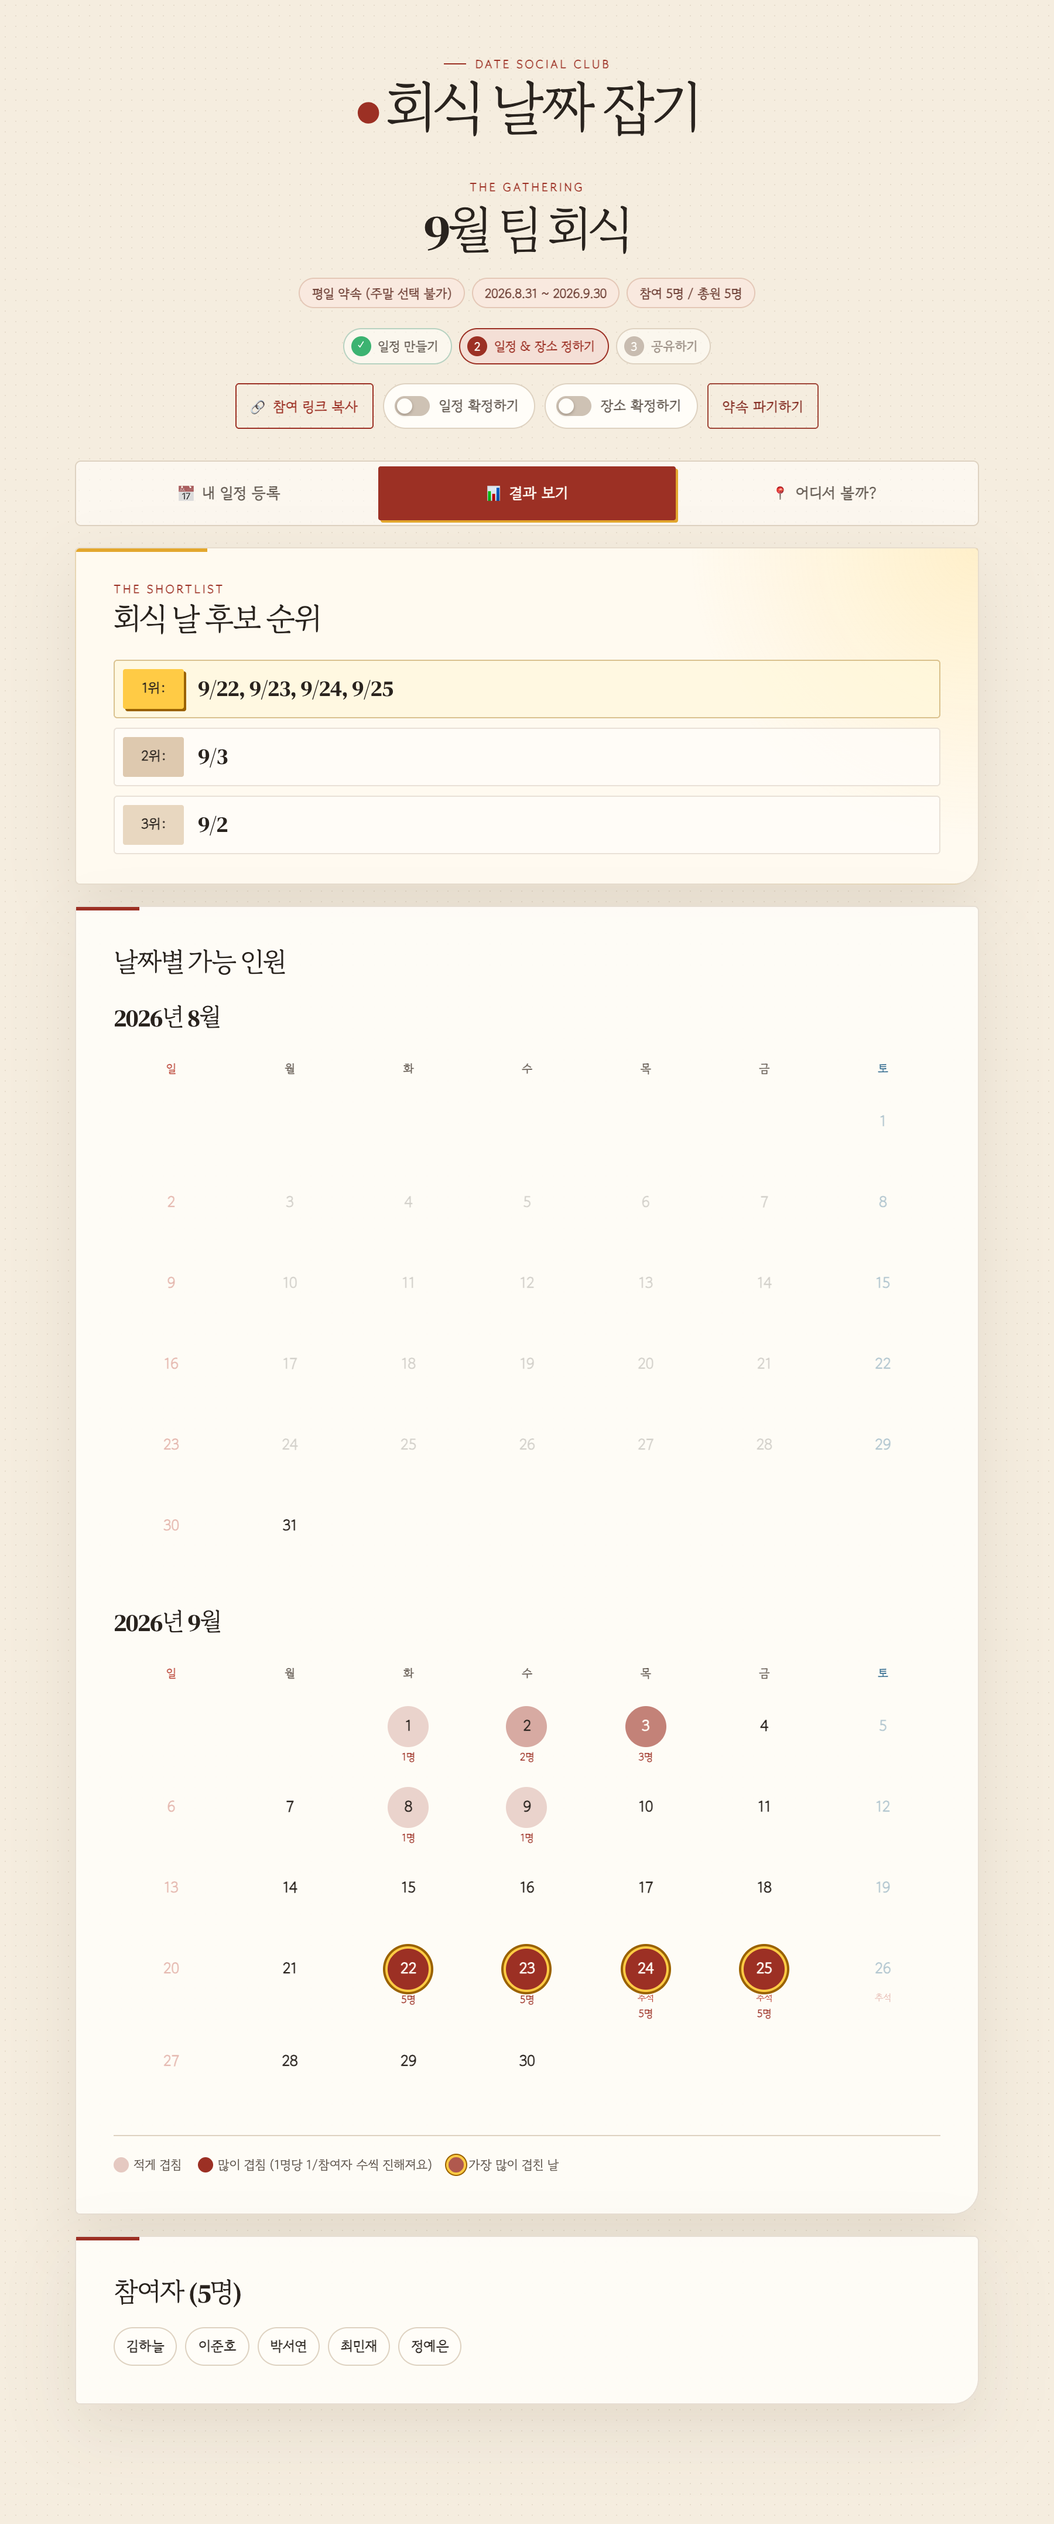
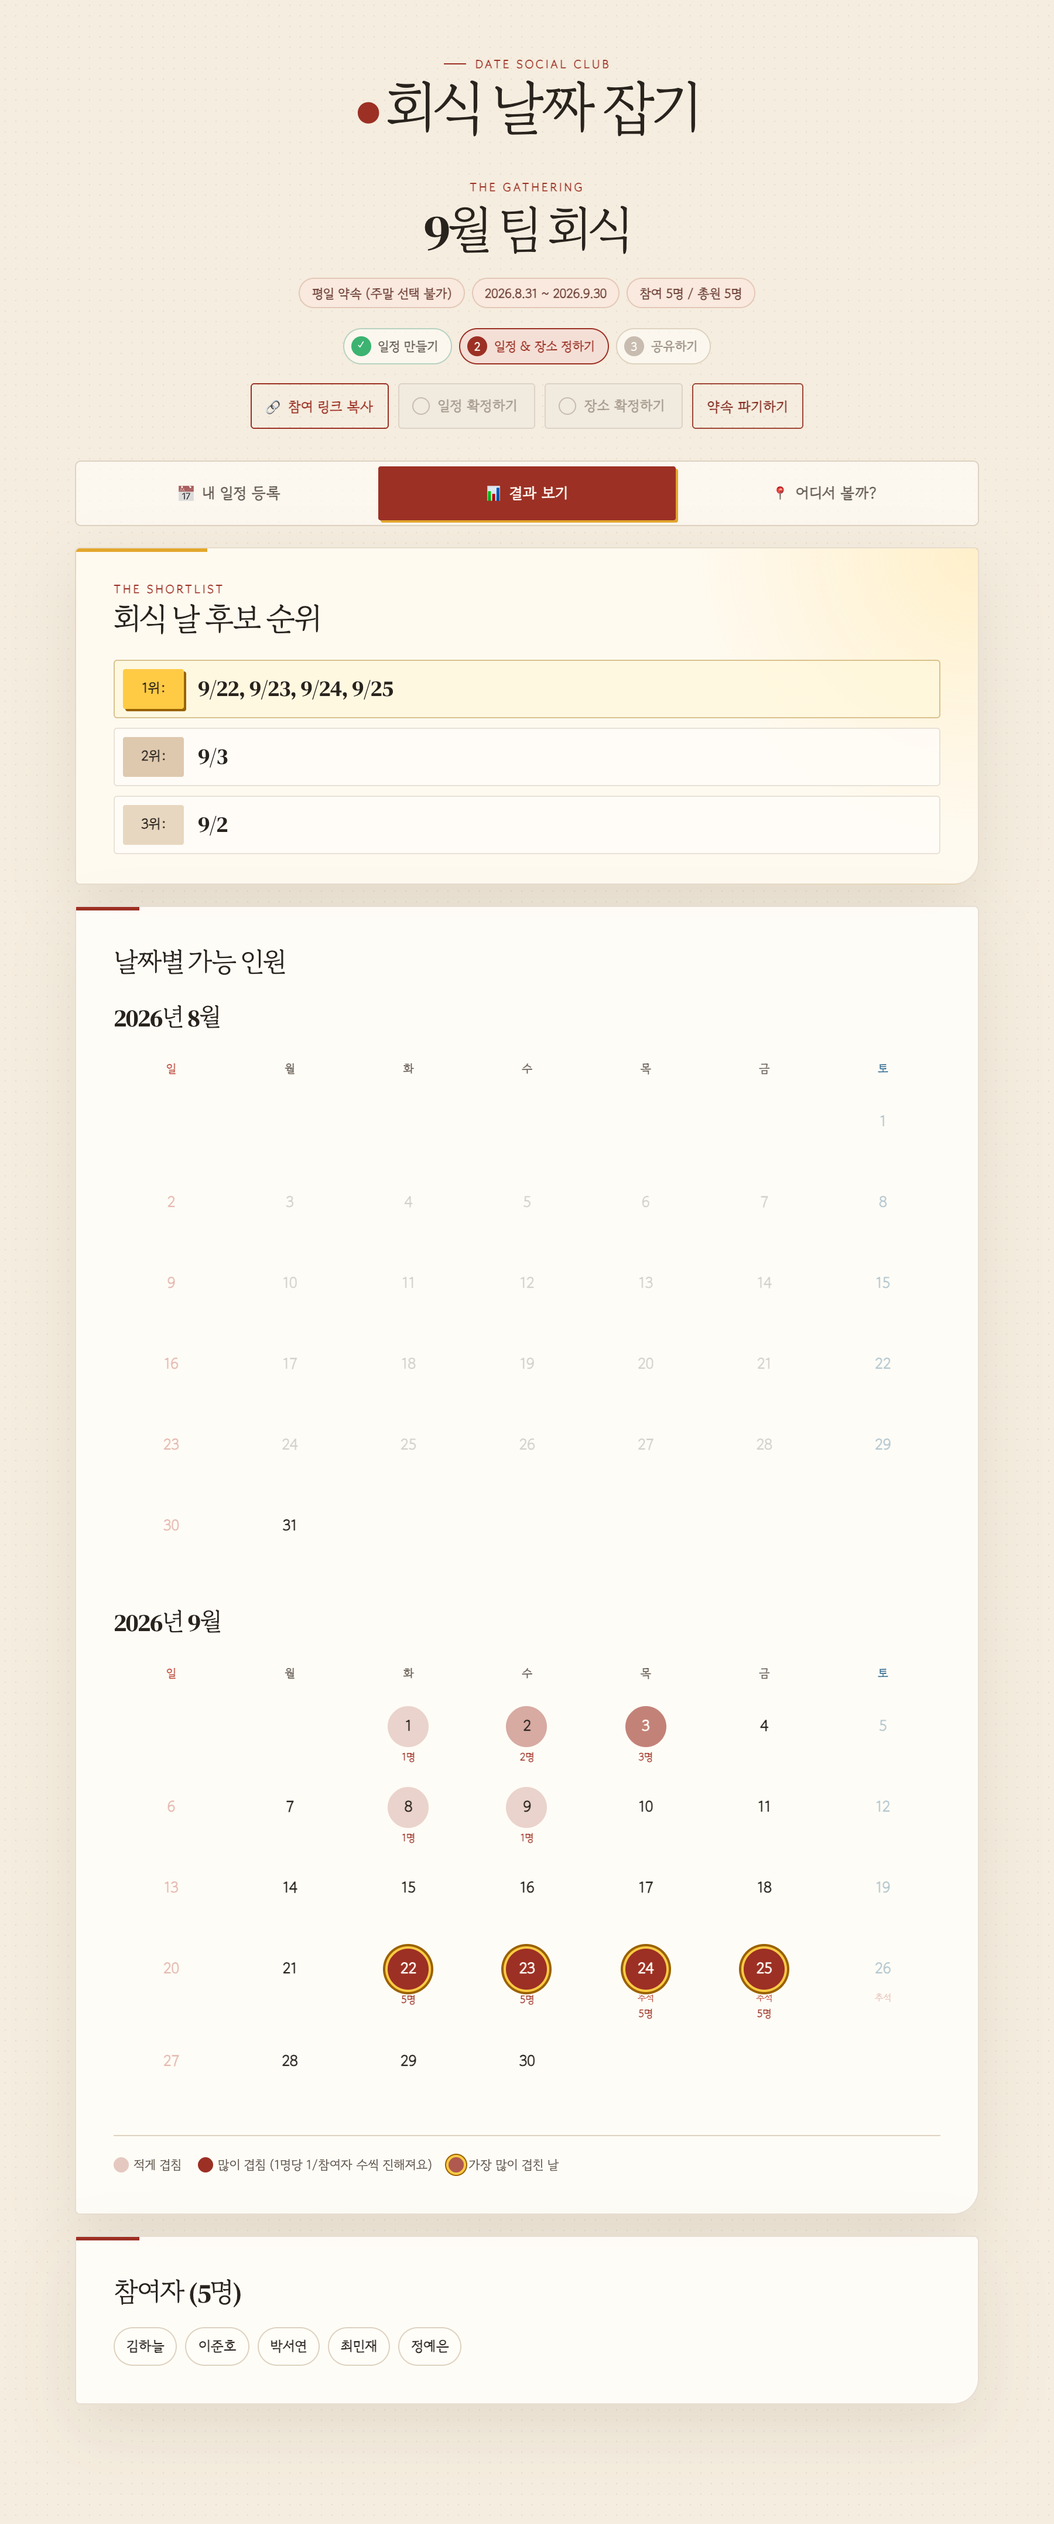
확정 스위치를 enable/disable 토글 버튼으로 변경
트랙·노브 스위치 대신 상태가 그대로 드러나는 토글 버튼으로 교체:
OFF는 회색 비활성 모양(빈 원), ON은 초록으로 채워진 활성 모양(체크
원)이며 누를 때마다 확정↔다시 정하기가 전환된다.

Claude-Session: https://claude.ai/code/session_018FYPPB8ih5HsNu38NPAV2M

Changed region(s): [[0.3422, 0.1244, 0.6844, 0.1866]]

diff --git a/public/css/style.css b/public/css/style.css
@@ -301,16 +301,16 @@ input:focus-visible { border-color: var(--accent); background: #fffefa; box-shad
 .place-card-footer { display: flex; grid-column: 1 / -1; align-items: stretch; gap: 8px; margin-top: 11px; }
 .place-card-footer .place-confirm-btn { min-width: 0; flex: 1; margin-top: 0; }
 
-/* 확정 ON/OFF 스위치 버튼 */
-.switch-btn { display: inline-flex; align-items: center; gap: 8px; min-height: 38px; padding: 8px 13px 8px 9px; color: var(--ink-soft); border: 1px solid var(--line); border-radius: 999px; background: var(--surface); cursor: pointer; font-size: 12px; font-weight: 700; transition: color 160ms ease, border-color 160ms ease, background 160ms ease; }
-.switch-btn:hover { border-color: #b9a58e; background: var(--surface-warm); }
-.switch-btn:focus-visible { outline: 3px solid rgba(156, 48, 36, 0.35); outline-offset: 3px; }
-.switch-btn:disabled { cursor: not-allowed; opacity: 0.6; }
-.switch-track { position: relative; display: inline-block; width: 30px; height: 17px; flex: 0 0 auto; border-radius: 999px; background: #cec2b4; transition: background 180ms ease; }
-.switch-knob { position: absolute; top: 2px; left: 2px; width: 13px; height: 13px; border-radius: 50%; background: var(--surface); box-shadow: 0 1px 3px rgba(43, 28, 18, 0.35); transition: transform 180ms ease; }
-.switch-btn.on { color: var(--success); border-color: #a6c9b4; background: #eef5f1; }
-.switch-btn.on .switch-track { background: #3cb371; }
-.switch-btn.on .switch-knob { transform: translateX(13px); }
+/* 확정 토글 버튼: OFF = 비활성(disabled) 느낌, ON = 초록으로 채워진 활성(enabled) 상태 */
+.toggle-btn { display: inline-flex; align-items: center; gap: 7px; min-height: 38px; padding: 8px 14px 8px 11px; color: #a89c8f; border: 1px solid #ddd3c6; border-radius: 3px; background: #f0eadf; cursor: pointer; font-size: 12px; font-weight: 700; box-shadow: none; transition: color 160ms ease, border-color 160ms ease, background 160ms ease, box-shadow 160ms ease, transform 160ms ease; }
+.toggle-btn:hover { color: var(--ink-soft); border-color: #c3b5a3; background: var(--surface-warm); }
+.toggle-btn:focus-visible { outline: 3px solid rgba(156, 48, 36, 0.35); outline-offset: 3px; }
+.toggle-btn:disabled { cursor: not-allowed; opacity: 0.55; }
+.toggle-mark { display: grid; width: 15px; height: 15px; flex: 0 0 auto; place-items: center; border: 1.5px solid #c8bcb0; border-radius: 50%; background: transparent; color: transparent; font-size: 9px; font-weight: 700; line-height: 1; transition: background 160ms ease, border-color 160ms ease, color 160ms ease; }
+.toggle-mark::before { content: '✓'; }
+.toggle-btn.on { color: #fff; border-color: #2f9e63; background: #3cb371; box-shadow: 2px 2px 0 #bfe0cd; }
+.toggle-btn.on:hover { background: #34a065; transform: translate(-1px, -1px); box-shadow: 3px 3px 0 #bfe0cd; }
+.toggle-btn.on .toggle-mark { color: #3cb371; border-color: #fff; background: #fff; }
 
 /* 팀즈 공유 버튼 (외부 공유 아이콘 + 라벨) */
 .share-btn { display: inline-flex; flex: 0 0 auto; align-items: center; justify-content: center; gap: 6px; padding: 8px 17px; color: #4a79d9; border: 1px solid #ccdaf6; border-radius: 8px; background: #e8effc; cursor: pointer; font-size: 12px; font-weight: 700; line-height: 1; transition: background 150ms ease, border-color 150ms ease, transform 150ms ease; }
@@ -341,7 +341,7 @@ input:focus-visible { border-color: var(--accent); background: #fffefa; box-shad
 .webhook-fields code { font-family: ui-monospace, SFMono-Regular, Menlo, monospace; }
 
 @media (max-width: 560px) {
-  .wrap { padding: 31px 15px 76px; }.landing-head { padding: 16px 0 30px; }.event-site-head { padding-bottom: 24px; }.card { padding: 24px 18px; border-radius: 3px 3px 17px 3px; }.theme-picker { gap: 5px; }.theme-picker .theme-opt { min-height: 94px; padding-inline: 3px; font-size: 11px; }.theme-picker .theme-opt small { font-size: 9px; }.cal-cell { min-height: 58px; padding-top: 5px; }.cal-day { width: 31px; height: 31px; font-size: 12px; }.cal-holiday { font-size: 7px; }.cal-count { font-size: 8px; }.cal-grid { gap: 1px; }.float-save { bottom: 10px; width: calc(100% - 20px); }.float-save .btn { padding-inline: 16px; }.event-head { padding-bottom: 22px; }.candidate-ranking { padding-block: 23px 20px; }.candidate-ranking-row { grid-template-columns: 47px minmax(0, 1fr); gap: 10px; }.candidate-rank-dates { font-size: 18px; }.cancel-dialog-form { padding: 26px 21px 22px; }.cancel-dialog-actions { flex-direction: column-reverse; }.cancel-dialog-actions .btn { width: 100%; }.tabs button { font-size: 11px; padding-inline: 2px; }.place-map { height: 260px; }.place-card { grid-template-columns: 26px minmax(0, 1fr); }.place-no { width: 26px; height: 26px; font-size: 11px; }.place-actions { grid-column: 1 / -1; flex-direction: row; align-items: center; justify-content: flex-end; gap: 12px; }.place-name { font-size: 17px; }.steps li { font-size: 10px; padding: 4px 9px 4px 5px; }.webhook-field { grid-template-columns: 68px minmax(0, 1fr); }.place-card-footer { flex-direction: column; }.share-btn { min-height: 38px; }.switch-btn { font-size: 11px; padding: 7px 11px 7px 8px; }.teams-dialog { max-height: 92vh; }.teams-dialog .cancel-dialog-form { max-height: 92vh; }.teams-preview-row { grid-template-columns: 66px minmax(0, 1fr); }.success-dialog-content { padding: 27px 21px; }
+  .wrap { padding: 31px 15px 76px; }.landing-head { padding: 16px 0 30px; }.event-site-head { padding-bottom: 24px; }.card { padding: 24px 18px; border-radius: 3px 3px 17px 3px; }.theme-picker { gap: 5px; }.theme-picker .theme-opt { min-height: 94px; padding-inline: 3px; font-size: 11px; }.theme-picker .theme-opt small { font-size: 9px; }.cal-cell { min-height: 58px; padding-top: 5px; }.cal-day { width: 31px; height: 31px; font-size: 12px; }.cal-holiday { font-size: 7px; }.cal-count { font-size: 8px; }.cal-grid { gap: 1px; }.float-save { bottom: 10px; width: calc(100% - 20px); }.float-save .btn { padding-inline: 16px; }.event-head { padding-bottom: 22px; }.candidate-ranking { padding-block: 23px 20px; }.candidate-ranking-row { grid-template-columns: 47px minmax(0, 1fr); gap: 10px; }.candidate-rank-dates { font-size: 18px; }.cancel-dialog-form { padding: 26px 21px 22px; }.cancel-dialog-actions { flex-direction: column-reverse; }.cancel-dialog-actions .btn { width: 100%; }.tabs button { font-size: 11px; padding-inline: 2px; }.place-map { height: 260px; }.place-card { grid-template-columns: 26px minmax(0, 1fr); }.place-no { width: 26px; height: 26px; font-size: 11px; }.place-actions { grid-column: 1 / -1; flex-direction: row; align-items: center; justify-content: flex-end; gap: 12px; }.place-name { font-size: 17px; }.steps li { font-size: 10px; padding: 4px 9px 4px 5px; }.webhook-field { grid-template-columns: 68px minmax(0, 1fr); }.place-card-footer { flex-direction: column; }.share-btn { min-height: 38px; }.toggle-btn { font-size: 11px; padding: 7px 11px 7px 8px; }.teams-dialog { max-height: 92vh; }.teams-dialog .cancel-dialog-form { max-height: 92vh; }.teams-preview-row { grid-template-columns: 66px minmax(0, 1fr); }.success-dialog-content { padding: 27px 21px; }
 }
 
 @media (prefers-reduced-motion: reduce) { *, *::before, *::after { scroll-behavior: auto !important; transition-duration: 0.01ms !important; animation-duration: 0.01ms !important; }.top-pick-spark { animation: none; } }

diff --git a/public/event.html b/public/event.html
@@ -31,13 +31,13 @@
         </ol>
         <div class="toolbar">
           <button type="button" class="btn ghost small" id="copy-link">🔗 참여 링크 복사</button>
-          <button type="button" class="switch-btn" id="confirm-event" aria-pressed="false">
-            <span class="switch-track" aria-hidden="true"><span class="switch-knob"></span></span>
-            <span class="switch-label">일정 확정하기</span>
+          <button type="button" class="toggle-btn" id="confirm-event" aria-pressed="false">
+            <span class="toggle-mark" aria-hidden="true"></span>
+            <span class="toggle-label">일정 확정하기</span>
           </button>
-          <button type="button" class="switch-btn" id="confirm-place-toggle" aria-pressed="false">
-            <span class="switch-track" aria-hidden="true"><span class="switch-knob"></span></span>
-            <span class="switch-label">장소 확정하기</span>
+          <button type="button" class="toggle-btn" id="confirm-place-toggle" aria-pressed="false">
+            <span class="toggle-mark" aria-hidden="true"></span>
+            <span class="toggle-label">장소 확정하기</span>
           </button>
           <button type="button" class="btn ghost danger small" id="cancel-event">약속 파기하기</button>
         </div>

diff --git a/public/js/event.js b/public/js/event.js
@@ -383,11 +383,11 @@ function formatLockRemaining(lockedUntil) {
   return `${Math.floor(remainingSeconds / 60)}:${String(remainingSeconds % 60).padStart(2, '0')}`;
 }
 
-// 확정 스위치의 상태(ON/OFF)와 라벨을 함께 갱신한다.
+// 확정 토글 버튼의 상태(enable/disable)와 라벨을 함께 갱신한다.
 function setSwitchState(button, on, label) {
   button.classList.toggle('on', on);
   button.setAttribute('aria-pressed', String(on));
-  button.querySelector('.switch-label').textContent = label;
+  button.querySelector('.toggle-label').textContent = label;
 }
 
 // 파기·확정이 같은 관리 비밀번호 잠금을 공유하므로 버튼들을 함께 잠근다.

diff --git a/README.md b/README.md
@@ -6,7 +6,7 @@
 로그인 없이 다음 3단계로 동작합니다. 진행 상황은 약속 페이지 상단의 단계 표시로 확인할 수 있습니다.
 
 1. **일정 만들기** — 약속을 만들고 참여 링크를 공유
-2. **일정 & 장소 정하기** — 날짜 투표와 '어디서 볼까?'의 후보지 등록·투표를 **병행**하고, 모임 주최자가 상단 스위치로 **일정 확정**(날짜·시간)과 **장소 확정**을 각각 켭니다
+2. **일정 & 장소 정하기** — 날짜 투표와 '어디서 볼까?'의 후보지 등록·투표를 **병행**하고, 모임 주최자가 상단 토글 버튼으로 **일정 확정**(날짜·시간)과 **장소 확정**을 각각 켭니다
 3. **공유하기** — 둘 다 확정되면 확정된 후보지 카드에 **↗ 공유** 버튼이 나타남
 
 ## 디자인
@@ -32,8 +32,8 @@
 | 관리 비밀번호 | 약속을 만들 때 **숫자 4~6자리 관리 비밀번호**를 정합니다. **일정·장소 확정과 그 취소, 약속 파기**에 사용하며, 서버에는 약속별 랜덤 salt를 붙인 **SHA-256 해시로만 저장**되고 조회 API 응답에서도 제외됩니다. |
 | 팀즈로 공유 | **일정·장소가 모두 확정된 3단계에서만**, '어디서 볼까?'의 **확정된 후보지 카드에** 파란 ↗ 공유 버튼이 나타납니다. ① **채널 골라서 보내기** — Teams 공유 창에서 채널·채팅을 직접 골라 보냅니다(사전 설정 없음). ② **자동 게시(고급)** — 웹후크 URL을 넣으면 확정된 일정·장소 카드가 자동으로 올라갑니다. 서버도 미확정 상태의 공유 요청은 `409`로 거부합니다. |
 | 링크 미리보기 | `/m/:id` 응답에 약속별 **OG 메타태그**(제목·참여 현황·날짜 1위·장소 1위)를 주입해, Teams를 비롯한 메신저에서 링크가 **내용 있는 카드**로 펼쳐집니다. |
-| 일정 확정 | 상단 **일정 확정하기 스위치**(OFF→ON)에서 **만나는 날짜**(1위 후보 날짜만 선택 가능)와 **시간**, 관리 비밀번호를 입력합니다. ON 상태에서 다시 누르면(**일정 다시 정하기**) 확정이 풀립니다. 장소 확정과는 **독립**이라 서로 영향을 주지 않고, 날짜·시간 값은 보존되어 재확정 때 채워집니다. |
-| 장소 확정 | **일정 확정 전에도** '어디서 볼까?'에서 후보지 등록·투표·확정이 가능합니다(병행). 후보지 카드의 **이 곳으로 확정하기** 또는 상단 **장소 확정하기 스위치**(득표순 후보 선택)로 정하고, **네이버 지도 링크(선택)** 를 넣으면 팀즈 공유에 정확한 POI 링크가 실립니다. ON 상태에서 다시 누르면(**장소 다시 정하기**) 확정이 풀리고, 확정된 후보지를 삭제해도 풀립니다. |
+| 일정 확정 | 상단 **일정 확정하기 토글**(OFF→ON)에서 **만나는 날짜**(1위 후보 날짜만 선택 가능)와 **시간**, 관리 비밀번호를 입력합니다. ON 상태에서 다시 누르면(**일정 다시 정하기**) 확정이 풀립니다. 장소 확정과는 **독립**이라 서로 영향을 주지 않고, 날짜·시간 값은 보존되어 재확정 때 채워집니다. |
+| 장소 확정 | **일정 확정 전에도** '어디서 볼까?'에서 후보지 등록·투표·확정이 가능합니다(병행). 후보지 카드의 **이 곳으로 확정하기** 또는 상단 **장소 확정하기 토글**(득표순 후보 선택)로 정하고, **네이버 지도 링크(선택)** 를 넣으면 팀즈 공유에 정확한 POI 링크가 실립니다. ON 상태에서 다시 누르면(**장소 다시 정하기**) 확정이 풀리고, 확정된 후보지를 삭제해도 풀립니다. |
 | 어디서 볼까? | 네이버 지도 위에 후보지를 핀으로 보여 줍니다. 득표 1위 후보는 목록 카드와 지도 핀이 **함께 골드로 강조**되고, 핀을 누르면 해당 카드로 이동합니다. |
 | 후보지 등록 | 장소 이름을 검색하면 **네이버 지역검색**으로 최대 5곳을 찾아 이름·분류·주소·좌표를 자동 입력합니다. `naver.me` POI 링크를 함께 넣으면 후보 카드에서 그 링크로 열리고, 비워두면 이름과 주소로 지도 검색 링크를 만들어 둡니다. (약속당 최대 12곳) |
 | 후보지 투표 | 참여자 이름을 고른 뒤 ♡를 눌러 투표합니다. 다시 누르면 취소되고, 목록은 **득표순**으로 정렬됩니다. 선택한 이름은 브라우저에 기억되며, 참여자가 삭제되면 그 사람의 투표도 함께 정리됩니다. |
@@ -321,16 +321,16 @@ Microsoft Graph로 채널에 글을 쓰려면 위임 권한 `ChannelMessage.Send
 날짜가 어느 정도 모이면 **어디서 만날지**를 정할 차례입니다.
 
 '어디서 볼까?' 탭은 **항상 열려 있어**, 날짜 투표가 끝나기 전에도 후보지를 모으고 투표할 수 있습니다.
-일정과 장소는 상단의 **스위치 두 개**로 각각 확정합니다. (OFF→ON: 확정, ON→OFF: 다시 정하기 — 둘 다 관리 비밀번호 필요)
+일정과 장소는 상단의 **토글 버튼 두 개**로 각각 확정합니다. OFF는 회색 비활성 모양, ON은 초록으로 채워진 활성 모양이며, 누를 때마다 확정↔다시 정하기가 전환됩니다. (둘 다 관리 비밀번호 필요)
 
 ### 6-1. 일정 확정하기
 
-상단의 **일정 확정하기** 스위치를 누릅니다.
+상단의 **일정 확정하기** 토글을 누릅니다.
 
 1. **언제 만날까요?** 에서 만나는 날짜를 고릅니다. **가장 많은 인원이 겹친 1위 후보 날짜만** 선택지에 나오며(동점이면 모두), 아직 등록된 일정이 없으면 확정할 수 없습니다.
 2. **몇 시에 볼까요?** 에서 만나는 시간을 고릅니다. (기본값 `19:00`, 5분 단위)
 3. **관리 비밀번호**(숫자 4~6자리)를 입력합니다.
-4. 확정되면 스위치가 ON(초록)이 되고 '어디서 볼까?' 화면으로 이동합니다. ON 상태의 라벨은 **일정 다시 정하기**로 바뀝니다.
+4. 확정되면 토글이 ON(초록 채움 + 체크)이 되고 '어디서 볼까?' 화면으로 이동합니다. ON 상태의 라벨은 **일정 다시 정하기**로 바뀝니다.
 
 확정된 시간은 상단에 `🕖 오후 7:00 만남` 칩으로, '어디서 볼까?' 화면 상단에는 `오후 7:00에 만나요` 로 표시됩니다.
 팀즈 카드의 **만나는 시간** 항목과 링크 미리보기 설명에도 함께 들어갑니다.
@@ -376,7 +376,7 @@ Microsoft Graph로 채널에 글을 쓰려면 위임 권한 `ChannelMessage.Send
 ### 6-4. 장소 확정하기
 
 투표가 모이면 후보 카드 아래의 **이 곳으로 확정하기** 버튼으로 최종 장소를 정합니다.
-상단의 **장소 확정하기** 스위치로도 정할 수 있어요 — 이때는 **득표순 후보 목록**에서 고릅니다. (일정 확정 전에도 가능)
+상단의 **장소 확정하기** 토글로도 정할 수 있어요 — 이때는 **득표순 후보 목록**에서 고릅니다. (일정 확정 전에도 가능)
 
 1. **네이버 지도 링크 (선택)** — `https://naver.me/...` 링크를 넣어두면 팀즈로 공유할 때 **정확한 POI 링크**가 함께 전달됩니다. 비우면 링크 없이 보냅니다.
 2. **관리 비밀번호**를 입력하면 확정됩니다.
